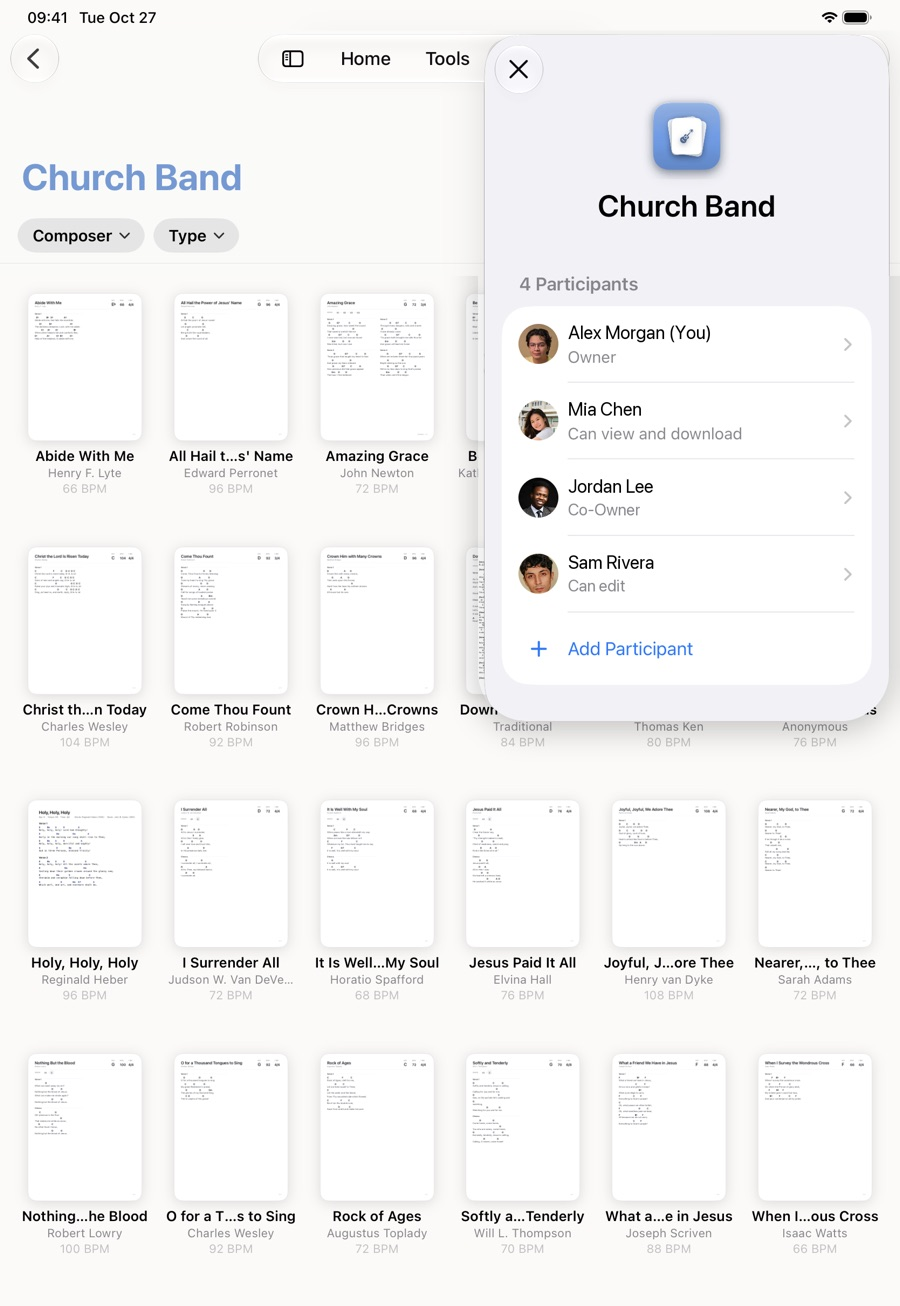
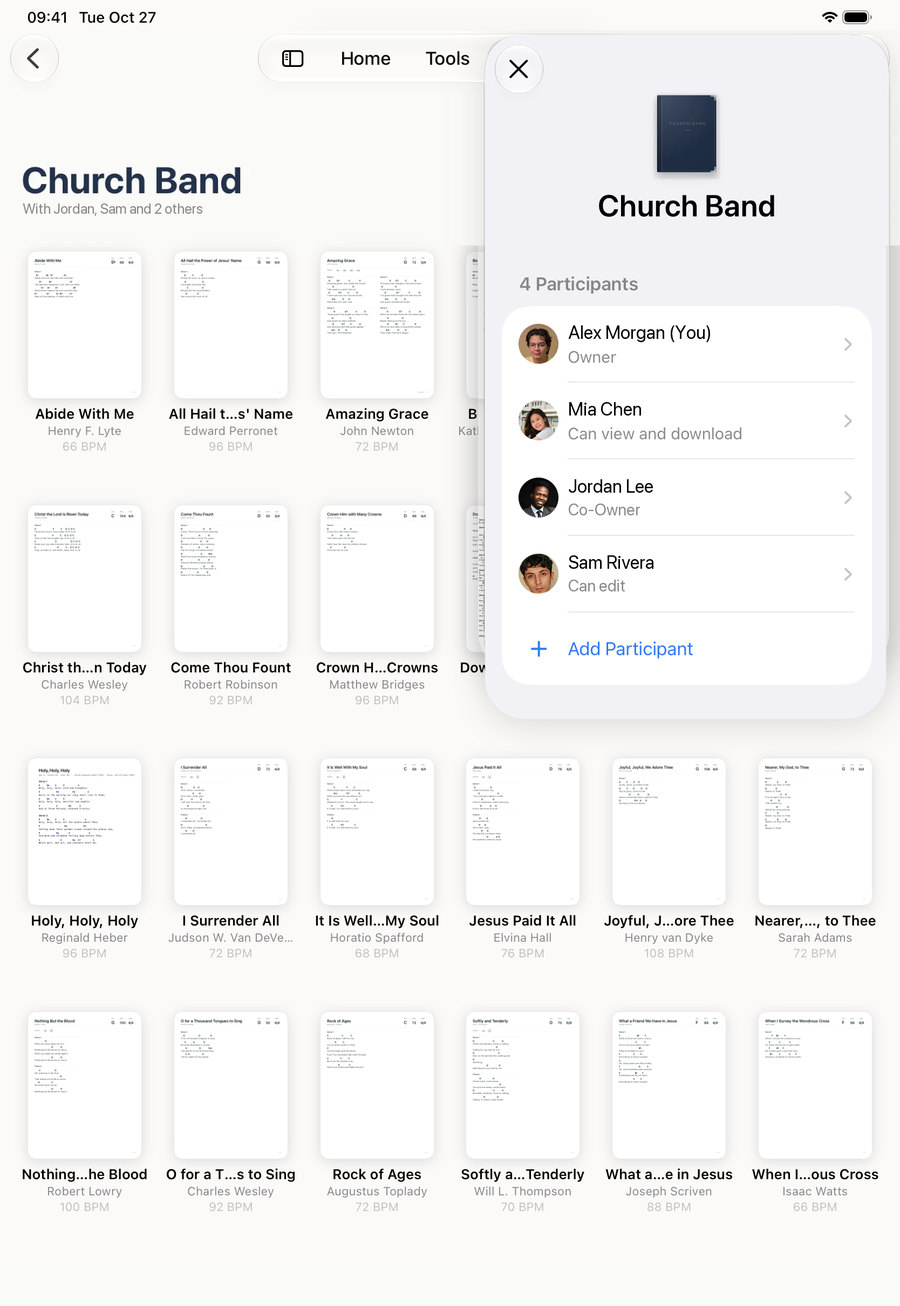
Screens 4.2: shared Church Band (iPad + iPhone) and the Tools tab from the 4.2 App Store captures
Same content as before (Church Band, Alex Morgan / Mia Chen / Jordan Lee / Sam Rivera
with the same roles; Tuner, Tone, Metronome, Piano), now in the 4.2 design. Reused from
the App Store studio's anonymised 4.2 captures, resized to the old pixel sizes
(900x1306, 700x1522), cache-busted ?v=2.

diff --git a/features/sharing.html b/features/sharing.html
@@ -203,7 +203,7 @@
       <p class="lede">Share a folder or a set list, choose who can edit, and every change reaches everyone’s iPhone, iPad and Mac.</p>
       <div class="cta-row"><a class="badge-link" href="/get?from=features-sharing-hero"><picture><img src="https://toolbox.marketingtools.apple.com/api/badges/download-on-the-app-store/black/en-us?size=250x83" alt="Download on the App Store" width="144" height="48"></picture></a></div>
     </div>
-    <div class="lp-visual"><div class="device tablet fit"><div class="screen shot"><img src="/assets/collab-ipad.jpg?v=1" alt="A shared Church Band folder in Music Folder on iPad, with its four participants: the owner, a co-owner, one who can edit and one who can view and download" width="900" height="1306" loading="lazy"></div></div></div>
+    <div class="lp-visual"><div class="device tablet fit"><div class="screen shot"><img src="/assets/collab-ipad.jpg?v=2" alt="A shared Church Band folder in Music Folder on iPad, with its four participants: the owner, a co-owner, one who can edit and one who can view and download" width="900" height="1306" loading="lazy"></div></div></div>
   </div>
 </section>
 
@@ -218,7 +218,7 @@
   <div class="wrap rows">
     <div class="row-feature">
       <div class="rf-text"><h2 class="heading-sm">You decide <em>who edits.</em></h2><p>Leaders and section leaders can edit; everyone else can view. Change anyone’s access, or remove them, whenever you need to.</p><ul class="rf-points"><li><svg viewBox="0 0 16 16" fill="none" stroke="currentColor" stroke-width="1.9" stroke-linecap="round" stroke-linejoin="round" aria-hidden="true"><path d="M3 8.5l3 3 7-7"/></svg><span>Can edit or view only, person by person</span></li><li><svg viewBox="0 0 16 16" fill="none" stroke="currentColor" stroke-width="1.9" stroke-linecap="round" stroke-linejoin="round" aria-hidden="true"><path d="M3 8.5l3 3 7-7"/></svg><span>Invite only: nothing is public</span></li><li><svg viewBox="0 0 16 16" fill="none" stroke="currentColor" stroke-width="1.9" stroke-linecap="round" stroke-linejoin="round" aria-hidden="true"><path d="M3 8.5l3 3 7-7"/></svg><span>Shared music doesn’t count toward the free limit</span></li></ul></div>
-      <div class="rf-visual"><div class="device phone fit"><div class="screen shot"><img src="/assets/collab-iphone.jpg?v=1" alt="The share settings for a Church Band folder in Music Folder on iPhone: the owner, a co-owner, one who can edit and one who can view and download" width="700" height="1522" loading="lazy"></div></div></div>
+      <div class="rf-visual"><div class="device phone fit"><div class="screen shot"><img src="/assets/collab-iphone.jpg?v=2" alt="The share settings for a Church Band folder in Music Folder on iPhone: the owner, a co-owner, one who can edit and one who can view and download" width="700" height="1522" loading="lazy"></div></div></div>
     </div><div class="row-feature flip">
       <div class="rf-text"><h2 class="heading-sm">Everyone keeps <em>their own markings.</em></h2><p>Shared music arrives clean. Each musician marks up their own copy with Apple Pencil, and their markings stay theirs.</p><ul class="rf-points"><li><svg viewBox="0 0 16 16" fill="none" stroke="currentColor" stroke-width="1.9" stroke-linecap="round" stroke-linejoin="round" aria-hidden="true"><path d="M3 8.5l3 3 7-7"/></svg><span>Fingerings and cues that suit each player</span></li><li><svg viewBox="0 0 16 16" fill="none" stroke="currentColor" stroke-width="1.9" stroke-linecap="round" stroke-linejoin="round" aria-hidden="true"><path d="M3 8.5l3 3 7-7"/></svg><span>No one’s markings overwrite anyone else’s</span></li><li><svg viewBox="0 0 16 16" fill="none" stroke="currentColor" stroke-width="1.9" stroke-linecap="round" stroke-linejoin="round" aria-hidden="true"><path d="M3 8.5l3 3 7-7"/></svg><span>Song notes stay private too</span></li></ul></div>
       <div class="rf-visual"><div class="device tablet fit"><div class="screen shot"><img src="/assets/annotate-ipad.jpg?v=2" alt="A score in Music Folder on iPad, marked up with handwritten notes and highlights in several colors" width="900" height="1305" loading="lazy"></div></div></div>

diff --git a/for/worship-teams.html b/for/worship-teams.html
@@ -227,7 +227,7 @@
   <div class="wrap rows">
     <div class="row-feature">
       <div class="rf-text"><h2 class="heading-sm">Sunday’s set, <em>shared.</em></h2><p>Share a set list or a folder of charts with your musicians and singers. You choose who can edit, and every change reaches the whole team.</p><ul class="rf-points"><li><svg viewBox="0 0 16 16" fill="none" stroke="currentColor" stroke-width="1.9" stroke-linecap="round" stroke-linejoin="round" aria-hidden="true"><path d="M3 8.5l3 3 7-7"/></svg><span>Live sharing with everyone who uses Music Folder</span></li><li><svg viewBox="0 0 16 16" fill="none" stroke="currentColor" stroke-width="1.9" stroke-linecap="round" stroke-linejoin="round" aria-hidden="true"><path d="M3 8.5l3 3 7-7"/></svg><span>Choose who can edit and who can only view</span></li><li><svg viewBox="0 0 16 16" fill="none" stroke="currentColor" stroke-width="1.9" stroke-linecap="round" stroke-linejoin="round" aria-hidden="true"><path d="M3 8.5l3 3 7-7"/></svg><span>Mark up your own copy with Apple Pencil</span></li></ul></div>
-      <div class="rf-visual"><div class="device tablet fit"><div class="screen shot"><img src="/assets/collab-ipad.jpg?v=1" alt="A shared Church Band folder in Music Folder on iPad, with its four participants: the owner, a co-owner, one who can edit and one who can view and download" width="900" height="1306" loading="lazy"></div></div></div>
+      <div class="rf-visual"><div class="device tablet fit"><div class="screen shot"><img src="/assets/collab-ipad.jpg?v=2" alt="A shared Church Band folder in Music Folder on iPad, with its four participants: the owner, a co-owner, one who can edit and one who can view and download" width="900" height="1306" loading="lazy"></div></div></div>
     </div><div class="row-feature flip">
       <div class="rf-text"><h2 class="heading-sm">Come <em>prepared.</em></h2><p>Attach a recording to every song, from your music library or a file, and play it right beside the chart. Musicians learn how it goes before rehearsal, and the drummer counts in at the song’s tempo.</p><ul class="rf-points"><li><svg viewBox="0 0 16 16" fill="none" stroke="currentColor" stroke-width="1.9" stroke-linecap="round" stroke-linejoin="round" aria-hidden="true"><path d="M3 8.5l3 3 7-7"/></svg><span>A reference recording on every song</span></li><li><svg viewBox="0 0 16 16" fill="none" stroke="currentColor" stroke-width="1.9" stroke-linecap="round" stroke-linejoin="round" aria-hidden="true"><path d="M3 8.5l3 3 7-7"/></svg><span>A metronome set to each song’s tempo</span></li><li><svg viewBox="0 0 16 16" fill="none" stroke="currentColor" stroke-width="1.9" stroke-linecap="round" stroke-linejoin="round" aria-hidden="true"><path d="M3 8.5l3 3 7-7"/></svg><span>Tuner, drones and piano one tap away</span></li></ul></div>
       <div class="rf-visual"><div class="device phone fit"><div class="screen shot"><img src="/assets/recording-iphone.jpg?v=1" alt="A chord chart for Come Thou Fount open in Music Folder on iPhone, with the song's reference recording playing in the bar above the chart" width="700" height="1522" loading="lazy"></div></div></div>

diff --git a/for/bands.html b/for/bands.html
@@ -219,7 +219,7 @@
   <div class="wrap rows">
     <div class="row-feature">
       <div class="rf-text"><h2 class="heading-sm">Everyone on the <em>same page.</em></h2><p>Share the set with the band. Swap a song or change the order and everyone's copy updates before soundcheck.</p><ul class="rf-points"><li><svg viewBox="0 0 16 16" fill="none" stroke="currentColor" stroke-width="1.9" stroke-linecap="round" stroke-linejoin="round" aria-hidden="true"><path d="M3 8.5l3 3 7-7"/></svg><span>Live sharing with everyone who uses Music Folder</span></li><li><svg viewBox="0 0 16 16" fill="none" stroke="currentColor" stroke-width="1.9" stroke-linecap="round" stroke-linejoin="round" aria-hidden="true"><path d="M3 8.5l3 3 7-7"/></svg><span>Choose who can edit and who can only view</span></li><li><svg viewBox="0 0 16 16" fill="none" stroke="currentColor" stroke-width="1.9" stroke-linecap="round" stroke-linejoin="round" aria-hidden="true"><path d="M3 8.5l3 3 7-7"/></svg><span>Or send a one-time copy through AirDrop, Messages or email</span></li></ul></div>
-      <div class="rf-visual"><div class="device tablet fit"><div class="screen shot"><img src="/assets/collab-ipad.jpg?v=1" alt="A shared Church Band folder in Music Folder on iPad, with its four participants: the owner, a co-owner, one who can edit and one who can view and download" width="900" height="1306" loading="lazy"></div></div></div>
+      <div class="rf-visual"><div class="device tablet fit"><div class="screen shot"><img src="/assets/collab-ipad.jpg?v=2" alt="A shared Church Band folder in Music Folder on iPad, with its four participants: the owner, a co-owner, one who can edit and one who can view and download" width="900" height="1306" loading="lazy"></div></div></div>
     </div><div class="row-feature flip">
       <div class="rf-text"><h2 class="heading-sm">Ready when the lights <em>go down.</em></h2><p>Your music lives on your device, so the set plays with no signal at the venue. Your iPhone, iPad and Mac stay in step through iCloud.</p><ul class="rf-points"><li><svg viewBox="0 0 16 16" fill="none" stroke="currentColor" stroke-width="1.9" stroke-linecap="round" stroke-linejoin="round" aria-hidden="true"><path d="M3 8.5l3 3 7-7"/></svg><span>Works completely offline</span></li><li><svg viewBox="0 0 16 16" fill="none" stroke="currentColor" stroke-width="1.9" stroke-linecap="round" stroke-linejoin="round" aria-hidden="true"><path d="M3 8.5l3 3 7-7"/></svg><span>Free iCloud sync across iPhone, iPad and Mac</span></li><li><svg viewBox="0 0 16 16" fill="none" stroke="currentColor" stroke-width="1.9" stroke-linecap="round" stroke-linejoin="round" aria-hidden="true"><path d="M3 8.5l3 3 7-7"/></svg><span>Song notes for cues and reminders beside the score</span></li></ul></div>
       <div class="rf-visual"><div class="device phone fit"><div class="screen shot"><img src="/assets/library-screen.jpg?v=2" alt="The Music Folder Library screen on iPhone: Songs, Folders and Set Lists, tags, and recently played scores" width="700" height="1538" loading="lazy"></div></div></div>

diff --git a/index.html b/index.html
@@ -263,7 +263,7 @@
         <article class="step" data-step="4" id="teams">
           <h3>Work together as a team.</h3>
           <p>Share a folder or set list with your band, class, choir or worship team. Changes show up for everyone, and you choose who can edit.</p>
-          <div class="step-visual"><div class="device tablet fit"><div class="screen shot"><img src="/assets/collab-ipad.jpg?v=1" alt="A shared Church Band folder in Music Folder on iPad, with its four participants: the owner, a co-owner, one who can edit and one who can view and download" width="900" height="1306" loading="lazy"></div></div></div>
+          <div class="step-visual"><div class="device tablet fit"><div class="screen shot"><img src="/assets/collab-ipad.jpg?v=2" alt="A shared Church Band folder in Music Folder on iPad, with its four participants: the owner, a co-owner, one who can edit and one who can view and download" width="900" height="1306" loading="lazy"></div></div></div>
         </article>
       </div>
       <div class="story-stage" aria-hidden="true">
@@ -272,7 +272,7 @@
           <div class="frame" data-step="1"><div class="device tablet landscape"><div class="screen shot"><img src="assets/setlist-concert-ipad.jpg?v=2" alt="" width="1306" height="900" loading="lazy"></div></div></div>
           <div class="frame" data-step="2"><div class="device tablet"><div class="screen shot"><img src="assets/annotate-ipad.jpg?v=2" alt="" width="900" height="1305" loading="lazy"></div><svg class="pencil" viewBox="0 0 380 22" aria-hidden="true" focusable="false"><defs><linearGradient id="pcBody" x1="0" y1="0" x2="0" y2="1"><stop offset="0" stop-color="#FFFFFF"/><stop offset=".38" stop-color="#F7F7F5"/><stop offset=".8" stop-color="#DEDEDA"/><stop offset="1" stop-color="#C9C9C5"/></linearGradient><linearGradient id="pcTip" x1="0" y1="0" x2="0" y2="1"><stop offset="0" stop-color="#FAFAF8"/><stop offset="1" stop-color="#CFCFCB"/></linearGradient></defs><path d="M34 1H369a10 10 0 0 1 0 20H34Z" fill="url(#pcBody)"/><path d="M34 4.2H369" stroke="#fff" stroke-width="1.6" opacity=".9"/><path d="M34 15.6H372" stroke="#000" stroke-opacity=".05" stroke-width="1"/><path d="M34 1L7 9.2v3.6L34 21Z" fill="url(#pcTip)"/><path d="M8.2 8.8L1 10.4a.7.7 0 0 0 0 1.2L8.2 13.2Z" fill="#8E8E8A"/><path d="M34 1v20" stroke="#000" stroke-opacity=".06"/></svg></div></div>
           <div class="frame" data-step="3"><div class="device phone"><div class="screen shot"><img src="assets/planning-center-iphone.jpg?v=1" alt="" width="700" height="1522" loading="lazy"></div></div></div>
-          <div class="frame" data-step="4"><div class="device tablet fit"><div class="screen shot"><img src="/assets/collab-ipad.jpg?v=1" alt="" width="900" height="1306" loading="lazy"></div></div></div>
+          <div class="frame" data-step="4"><div class="device tablet fit"><div class="screen shot"><img src="/assets/collab-ipad.jpg?v=2" alt="" width="900" height="1306" loading="lazy"></div></div></div>
         </div>
       </div>
     </div>

diff --git a/features/set-lists.html b/features/set-lists.html
@@ -224,7 +224,7 @@
       <div class="rf-visual"><div class="device tablet landscape fit"><div class="screen shot"><img src="/assets/setlist-bookmark-ipad.jpg?v=1" alt="Adding hymns from a hymnal to a set list in Music Folder on iPad: the Hymnal's bookmarks, each with its page, with Abide With Me and Blessed Assurance selected" width="1306" height="900" loading="lazy"></div></div></div>
     </div><div class="row-feature">
       <div class="rf-text"><h2 class="heading-sm">Everyone on the <em>same page.</em></h2><p>Share the set with your band or team. Swap a song or change the order, and everyone’s copy updates.</p><ul class="rf-points"><li><svg viewBox="0 0 16 16" fill="none" stroke="currentColor" stroke-width="1.9" stroke-linecap="round" stroke-linejoin="round" aria-hidden="true"><path d="M3 8.5l3 3 7-7"/></svg><span>Choose who can edit and who can only view</span></li><li><svg viewBox="0 0 16 16" fill="none" stroke="currentColor" stroke-width="1.9" stroke-linecap="round" stroke-linejoin="round" aria-hidden="true"><path d="M3 8.5l3 3 7-7"/></svg><span>Send it as one PDF, markings included</span></li><li><svg viewBox="0 0 16 16" fill="none" stroke="currentColor" stroke-width="1.9" stroke-linecap="round" stroke-linejoin="round" aria-hidden="true"><path d="M3 8.5l3 3 7-7"/></svg><span>Or send a copy for others to import</span></li></ul><p class="rf-more"><a href="/features/sharing">How sharing works</a></p></div>
-      <div class="rf-visual"><div class="device tablet fit"><div class="screen shot"><img src="/assets/collab-ipad.jpg?v=1" alt="A shared Church Band folder in Music Folder on iPad, with its four participants: the owner, a co-owner, one who can edit and one who can view and download" width="900" height="1306" loading="lazy"></div></div></div>
+      <div class="rf-visual"><div class="device tablet fit"><div class="screen shot"><img src="/assets/collab-ipad.jpg?v=2" alt="A shared Church Band folder in Music Folder on iPad, with its four participants: the owner, a co-owner, one who can edit and one who can view and download" width="900" height="1306" loading="lazy"></div></div></div>
     </div>
   </div>
 </section>

diff --git a/features/toolkit.html b/features/toolkit.html
@@ -211,7 +211,7 @@
       <p class="lede">Everything you practice with, in the same app as your music: a chromatic and guitar tuner, tones and drones, a metronome and an 88-key piano, one tap from any score.</p>
       <div class="cta-row"><a class="badge-link" href="/get?from=features-toolkit-hero"><picture><img src="https://toolbox.marketingtools.apple.com/api/badges/download-on-the-app-store/black/en-us?size=250x83" alt="Download on the App Store" width="144" height="48"></picture></a></div>
     </div>
-    <div class="lp-visual"><div class="device phone fit"><div class="screen shot"><img src="/assets/tool-tools-tab.jpg?v=1" alt="The Tools tab in Music Folder on iPhone: Tuner, Tone, Metronome and Piano" width="700" height="1522"></div></div></div>
+    <div class="lp-visual"><div class="device phone fit"><div class="screen shot"><img src="/assets/tool-tools-tab.jpg?v=2" alt="The Tools tab in Music Folder on iPhone: Tuner, Tone, Metronome and Piano" width="700" height="1522"></div></div></div>
   </div>
 </section>
 
